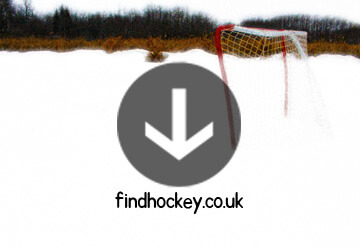
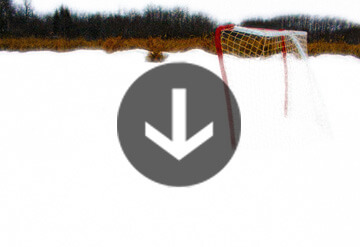
Add HTML eds

Changed region(s): [[0.3056, 0.7652, 0.6722, 0.8785]]

diff --git a/index.html b/index.html
@@ -33,13 +33,13 @@
 					<div id="main">
 						<article class="thumb">
 							<a href="images/fulls/01.jpg" class="image"><img src="images/thumbs/01.jpg" alt="" /></a>
-							<h2>Magna feugiat lorem</h2>
+							<h2>Conservation</h2>
 							<p>Nunc blandit nisi ligula magna sodales lectus elementum non. Integer id venenatis velit.</p>
 						</article>
 						<article class="thumb">
 							<a href="images/fulls/02.jpg" class="image"><img src="images/thumbs/02.jpg" alt="" /></a>
-							<h2>Nisl adipiscing</h2>
-							<p>Nunc blandit nisi ligula magna sodales lectus elementum non. Integer id venenatis velit.</p>
+							<h2>findhockey.co.uk</h2>
+							<p>Find inline and ice hockey near you @ <a href"www.findhockey.co.uk">findhockey.co.uk</a></p>
 						</article>
 						<article class="thumb">
 							<a href="images/fulls/03.jpg" class="image"><img src="images/thumbs/03.jpg" alt="" /></a>
